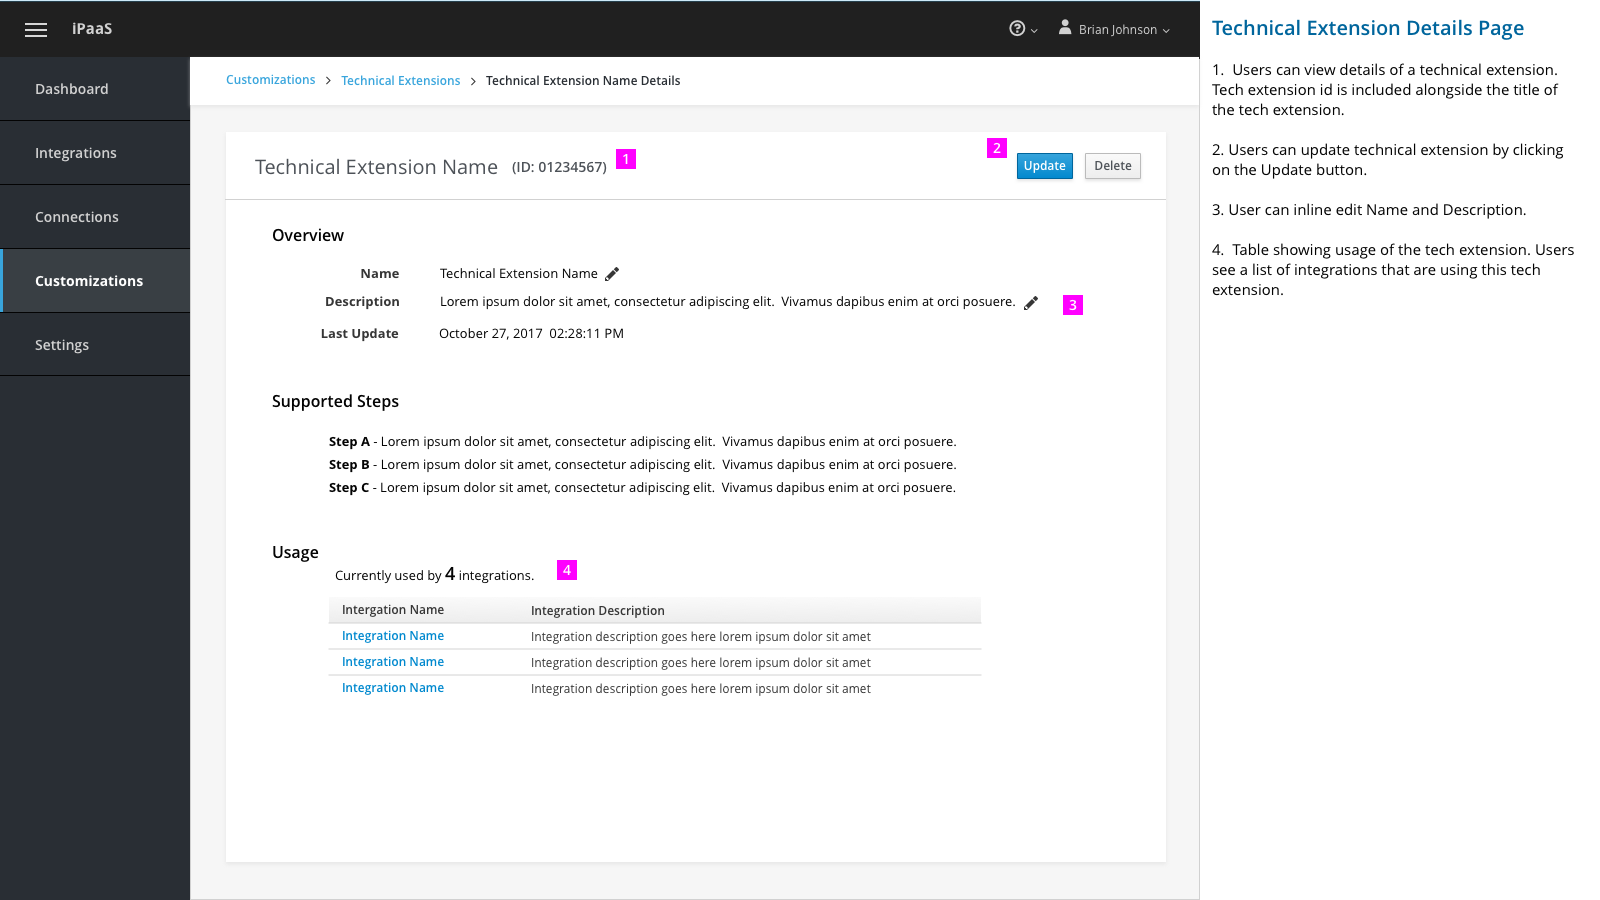
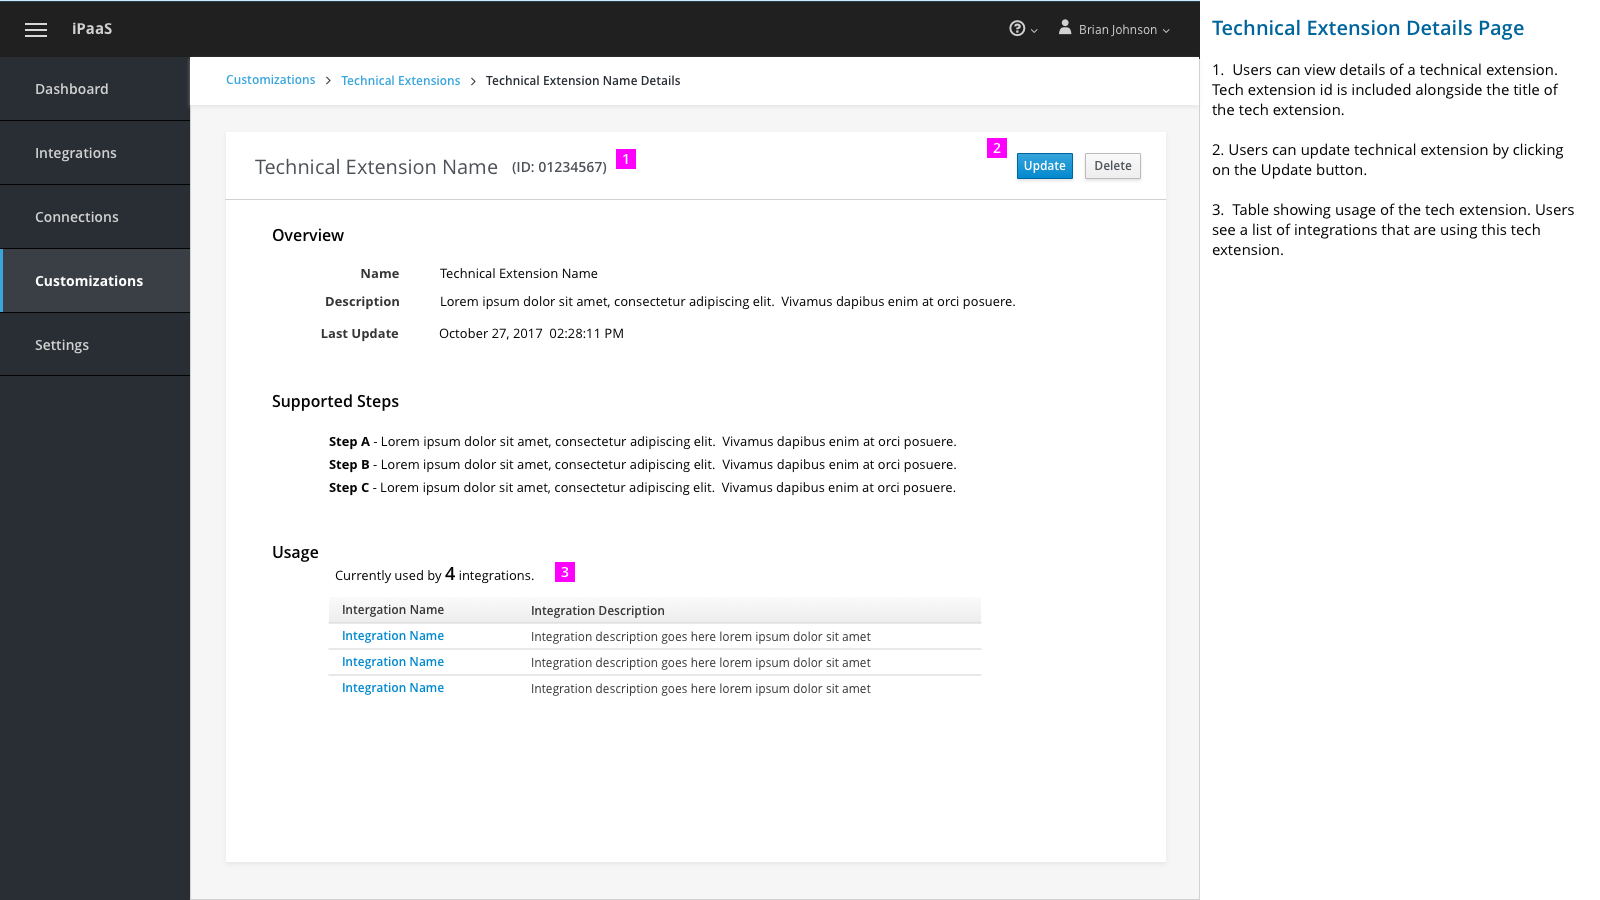
Removed inline edit from details page

Changed region(s): [[0.75, 0.2178, 0.9688, 0.3422], [0.6562, 0.3111, 0.6875, 0.3422], [0.3438, 0.6222, 0.375, 0.6533]]

diff --git a/designs/technical_extensions/tech_ext.md b/designs/technical_extensions/tech_ext.md
@@ -37,9 +37,7 @@ This design covers the following workflows:
 
 2. Users can update technical extension by clicking on the Update button.  
 
-3. User can inline edit Name and Description.
-
-4. Table showing usage of the tech extension. Users see a list of integrations that are using this tech extension.
+3. Table showing usage of the tech extension. Users see a list of integrations that are using this tech extension.
 
 ## Import New Technical Extension
 
